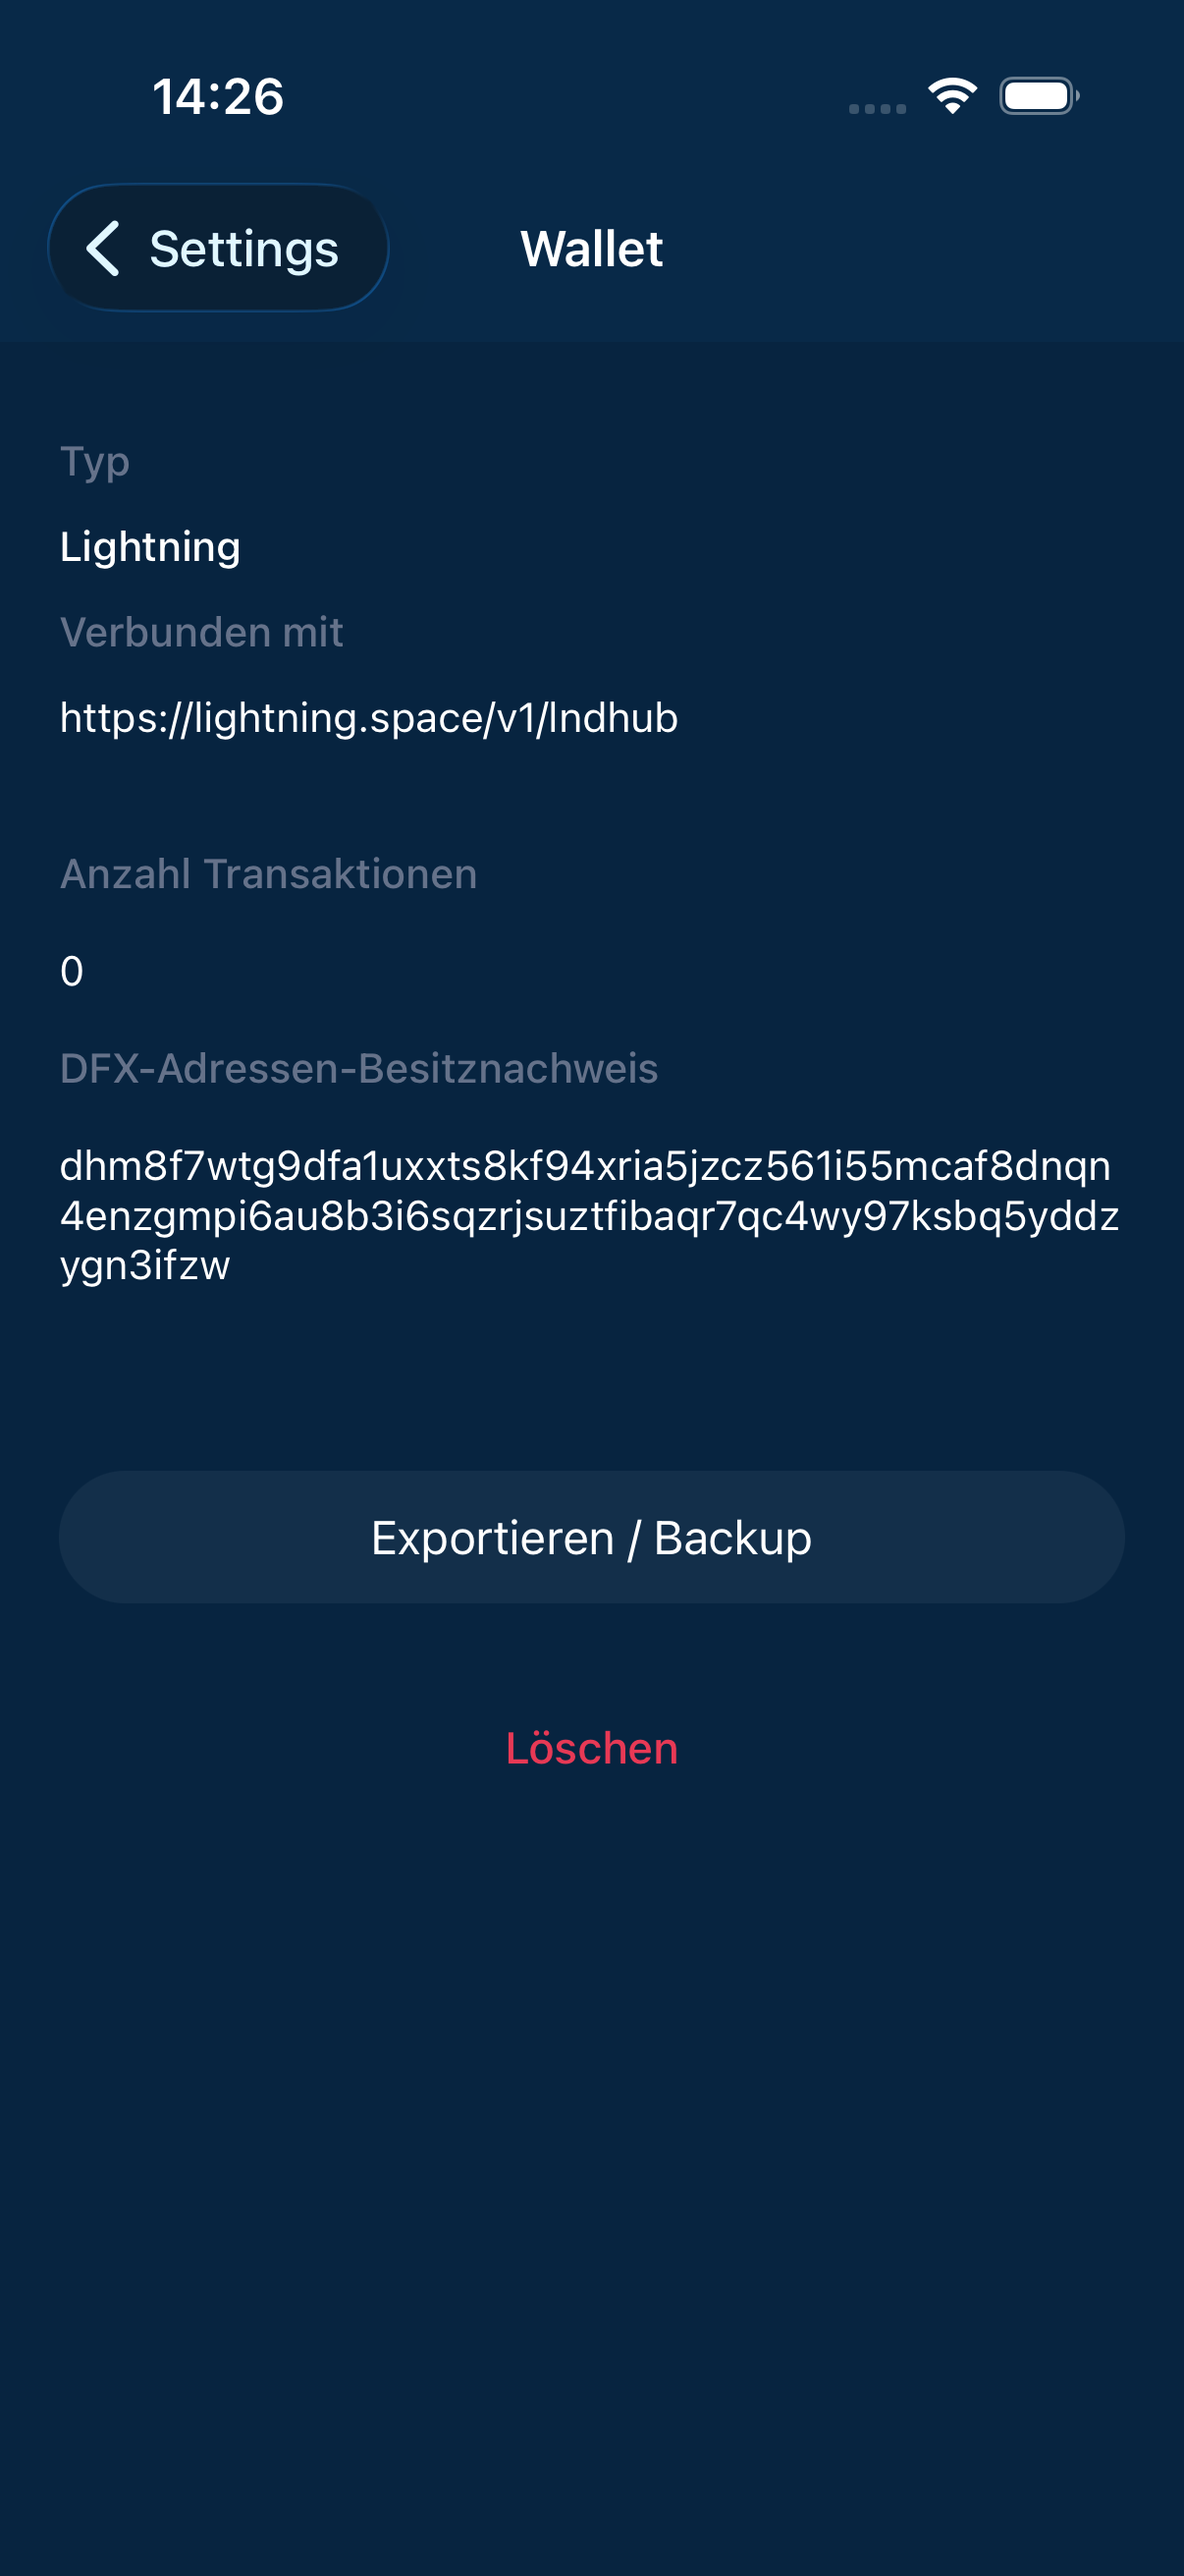
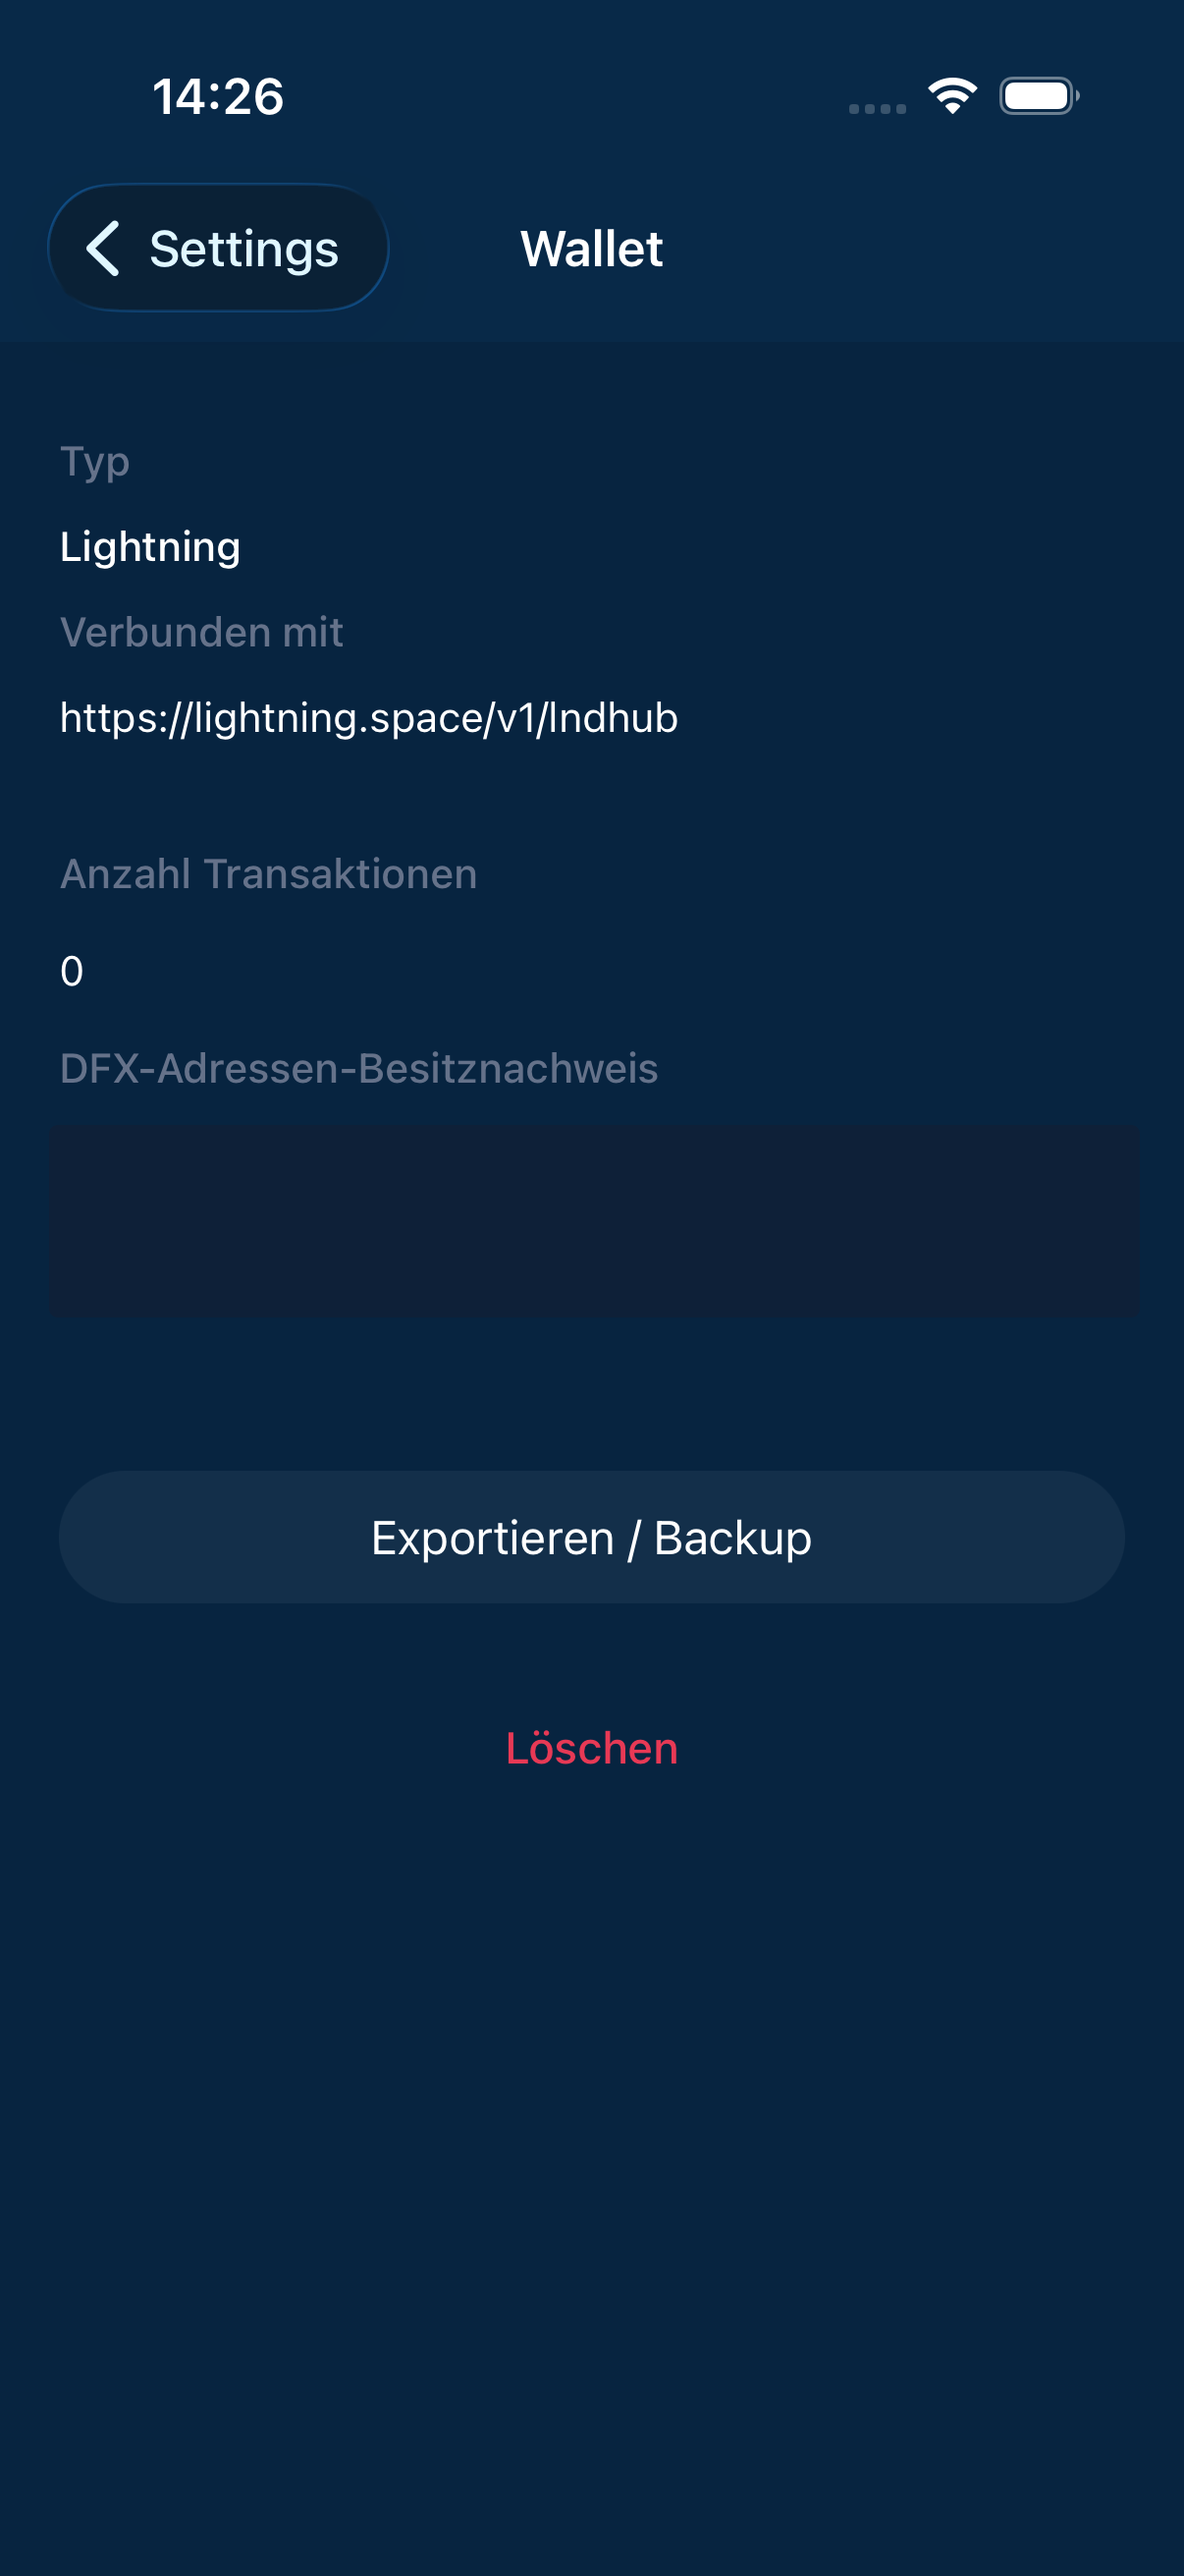
FIX: black out credentials and extended public keys in the screenshots
Two screenshots showed the "DFX-Adressen-Besitznachweis" field in plain text.
That value is not decoration: api/dfx/hooks/auth.hook.ts signs a static message
with no nonce and no expiry, so the signature stays valid indefinitely and the
matching Lightning address was published in the same set as a QR code. Two more
QR codes carried extended public keys -- a BIP84 account zpub, which exposes
every past and future address of that wallet, and a multisig cosigner key.

The wallet is a throwaway from a simulator run and holds nothing, so nothing was
at risk. Credentials and account keys still do not belong in a public repository,
whatever they are worth.

Blacked out: the proof-of-ownership field in 03-wallet-einstellungen.png and
19-lightning-wallet.png, the QR and the zpub text in 07-xpub.png, the cosigner QR
in 01-erstellung-qr.png, and the QR and address in 03-rechnung-erstellen.png. The
labels and the surrounding layout stay, so the screens still document what they
are meant to document.

The earlier check missed all of this because it was too narrow: OCR looked only
for runs of BIP39 words and zbarimg ran against a single file. Signatures and
extended keys pass both. The README now states the check over the whole set and
names the one decodable QR that is allowed to remain -- the on-chain receive
address, which is the subject of its own screen.

zbarimg over all 42 screenshots now yields exactly that one address; OCR finds no
signature and no zpub/xpub key material.
[…]

Changed region(s): [[0.0614, 0.4325, 0.9511, 0.4943]]

diff --git a/docs/handbook/README.md b/docs/handbook/README.md
@@ -237,7 +237,28 @@ lesbare Phrase gehoert nicht in ein oeffentliches Repository. Gegenprobe nach
 jeder Aenderung an diesen Bildern:
 
 ```bash
-zbarimg -q --raw docs/handbook/screenshots/02-wallet/06-export-backup.png   # muss leer sein
+# ueber den GANZEN Satz, nicht ueber eine Datei — genau diese Verkuerzung hat
+# beim ersten Anlauf zwei Signaturen und zwei erweiterte Public Keys durchgelassen
+for f in docs/handbook/screenshots/**/*.png; do zbarimg -q --raw "$f"; done
+```
+
+Erlaubt ist genau ein Treffer: die On-Chain-Empfangsadresse in
+`04-empfangen-senden/01-erhalten.png` — sie ist der Inhalt dieses Screens und eine
+einzelne Wegwerf-Adresse. Jeder weitere Treffer ist ein Fund.
+
+Zusaetzlich geschwaerzt, weil sie Anmeldematerial bzw. dauerhaft gueltige
+Schluessel zeigen: das Feld „DFX-Adressen-Besitznachweis" in
+`03-einstellungen/03-wallet-einstellungen.png` und `19-lightning-wallet.png` (eine
+Signatur ueber eine **statische Nachricht ohne Nonce**, siehe
+`api/dfx/hooks/auth.hook.ts` — laeuft nie ab), der Account-`zpub` in
+`02-wallet/07-xpub.png`, der Cosigner-QR in `07-multi-device/01-erstellung-qr.png`
+und die Lightning-Adresse in `08-lightning/03-rechnung-erstellen.png`.
+
+Gegenprobe zusaetzlich per OCR:
+
+```bash
+# darf nichts finden
+grep -oiE "[zx]pub6[A-Za-z0-9]{20,}" <ocr-ausgabe>
 ```
 
 Zusaetzlich laeuft ueber den ganzen Satz eine OCR-Probe: keine Folge von vier
